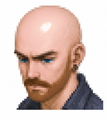
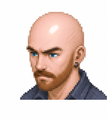
Swap in the second nine-pose sheet, and save the slicing as a script
The turns are subtler than the first sheet's, so adjacent frames sit
closer together and the switch between them is less abrupt.

Having done this twice by hand, the pipeline is now tools/slice-look-frames.py
rather than a one-off. It carries the two things that were bugs first --
the single crop box shared by all nine frames, and compositing onto white
before the resize -- and checks the top and bottom edge of every result,
since a black band is easy to miss against a dark page.

Claude-Session: https://claude.ai/code/session_01CjnpaYAr8vizShw4o1xh1Z

diff --git a/tools/slice-look-frames.py b/tools/slice-look-frames.py
@@ -1,0 +1,118 @@
+#!/usr/bin/env python3
+"""
+Slices a 3x3 sheet of portrait poses into the nine look-at-cursor frames.
+
+    python3 tools/slice-look-frames.py <sheet.png>
+
+The sheet is read in the same order the effect uses:
+
+    up-left     up      up-right
+    left        center  right
+    down-left   down    down-right
+
+Two things here are not obvious, and both were bugs first:
+
+* **One crop box, shared by all nine frames** -- the union of their ink
+  bounding boxes, grown to the portrait's 107:122 aspect rather than squashed
+  to it. Cropping each pose to its own content instead rescales and recentres
+  it, so the head jumps in size and position as it looks about, which ruins
+  the effect it is there to create.
+
+* **Composite onto white before resizing.** The shared box is taller than a
+  cell, so on the top and bottom rows it overruns the artwork. PIL fills an
+  out-of-bounds crop with black, which shipped once as black bands across the
+  top and bottom of six frames.
+
+Writes frontend/public/portrait--look-<direction>.png and checks the edges of
+each result, since a black band is easy to miss on a dark page.
+"""
+import sys
+from pathlib import Path
+
+import numpy as np
+from PIL import Image
+
+DIRS = [
+    ["up-left", "up", "up-right"],
+    ["left", "center", "right"],
+    ["down-left", "down", "down-right"],
+]
+
+# The portrait's native size, matching public/portrait.png and the character
+# spritesheet (PORTRAIT_WIDTH/HEIGHT in src/data/portraits.ts).
+TW, TH = 107, 122
+
+# A pixel counts as ink if it is meaningfully darker than the white ground.
+INK = 720
+
+
+def main(sheet_path: str) -> int:
+    out_dir = Path(__file__).resolve().parent.parent / "frontend" / "public"
+    src = Image.open(sheet_path).convert("RGB")
+    sw, sh = src.size
+
+    if sw % 3 or sh % 3:
+        print(f"sheet is {sw}x{sh}, not divisible into a 3x3 grid", file=sys.stderr)
+        return 1
+    cw, ch = sw // 3, sh // 3
+
+    origins, box = {}, None
+    left = top = 10 ** 9
+    right = bottom = -1
+
+    for r, row in enumerate(DIRS):
+        for c, name in enumerate(row):
+            ox, oy = c * cw, r * ch
+            origins[name] = (ox, oy)
+            cell = np.asarray(src.crop((ox, oy, ox + cw, oy + ch))).astype(int)
+            ys, xs = np.where(cell.sum(axis=2) < INK)
+            if not len(xs):
+                print(f"cell {name} is blank", file=sys.stderr)
+                return 1
+            left, right = min(left, xs.min()), max(right, xs.max())
+            top, bottom = min(top, ys.min()), max(bottom, ys.max())
+
+    w, h = right - left + 1, bottom - top + 1
+    if w / h > TW / TH:
+        pad = (round(w * TH / TW) - h) / 2
+        top, bottom = top - pad, bottom + pad
+    else:
+        pad = (round(h * TW / TH) - w) / 2
+        left, right = left - pad, right + pad
+    box = (round(left), round(top), round(right) + 1, round(bottom) + 1)
+    bw, bh = box[2] - box[0], box[3] - box[1]
+    print(f"cells {cw}x{ch}, shared crop {bw}x{bh} (aspect {bw/bh:.4f}, target {TW/TH:.4f})")
+
+    failures = 0
+    for name, (ox, oy) in origins.items():
+        frame = Image.new("RGB", (bw, bh), (255, 255, 255))
+        x0, y0 = max(0, ox + box[0]), max(0, oy + box[1])
+        x1, y1 = min(sw, ox + box[2]), min(sh, oy + box[3])
+        if x1 > x0 and y1 > y0:
+            frame.paste(src.crop((x0, y0, x1, y1)), (x0 - (ox + box[0]), y0 - (oy + box[1])))
+
+        out = out_dir / f"portrait--look-{name}.png"
+        frame.resize((TW, TH), Image.LANCZOS).save(out, optimize=True)
+
+        # The top and bottom edges must stay clear: content reaching the sides
+        # is legitimate (the front-facing pose has the widest shoulders), but a
+        # dark top or bottom edge means the overrun was filled rather than
+        # padded, i.e. the black-band bug is back.
+        a = np.asarray(Image.open(out).convert("RGB")).astype(int)
+        for edge_name, edge in (("top", a[0]), ("bottom", a[-1])):
+            dark = int((edge.sum(axis=1) < 600).sum())
+            if dark:
+                print(f"  !! {name}: {dark} dark px on {edge_name} edge", file=sys.stderr)
+                failures += 1
+        print(f"  {out.name}  {out.stat().st_size // 1024}K")
+
+    if failures:
+        print(f"{failures} edge check(s) failed", file=sys.stderr)
+    return 1 if failures else 0
+
+
+if __name__ == "__main__":
+    if len(sys.argv) != 2:
+        print(__doc__, file=sys.stderr)
+        sys.exit(2)
+    sys.exit(main(sys.argv[1]))
